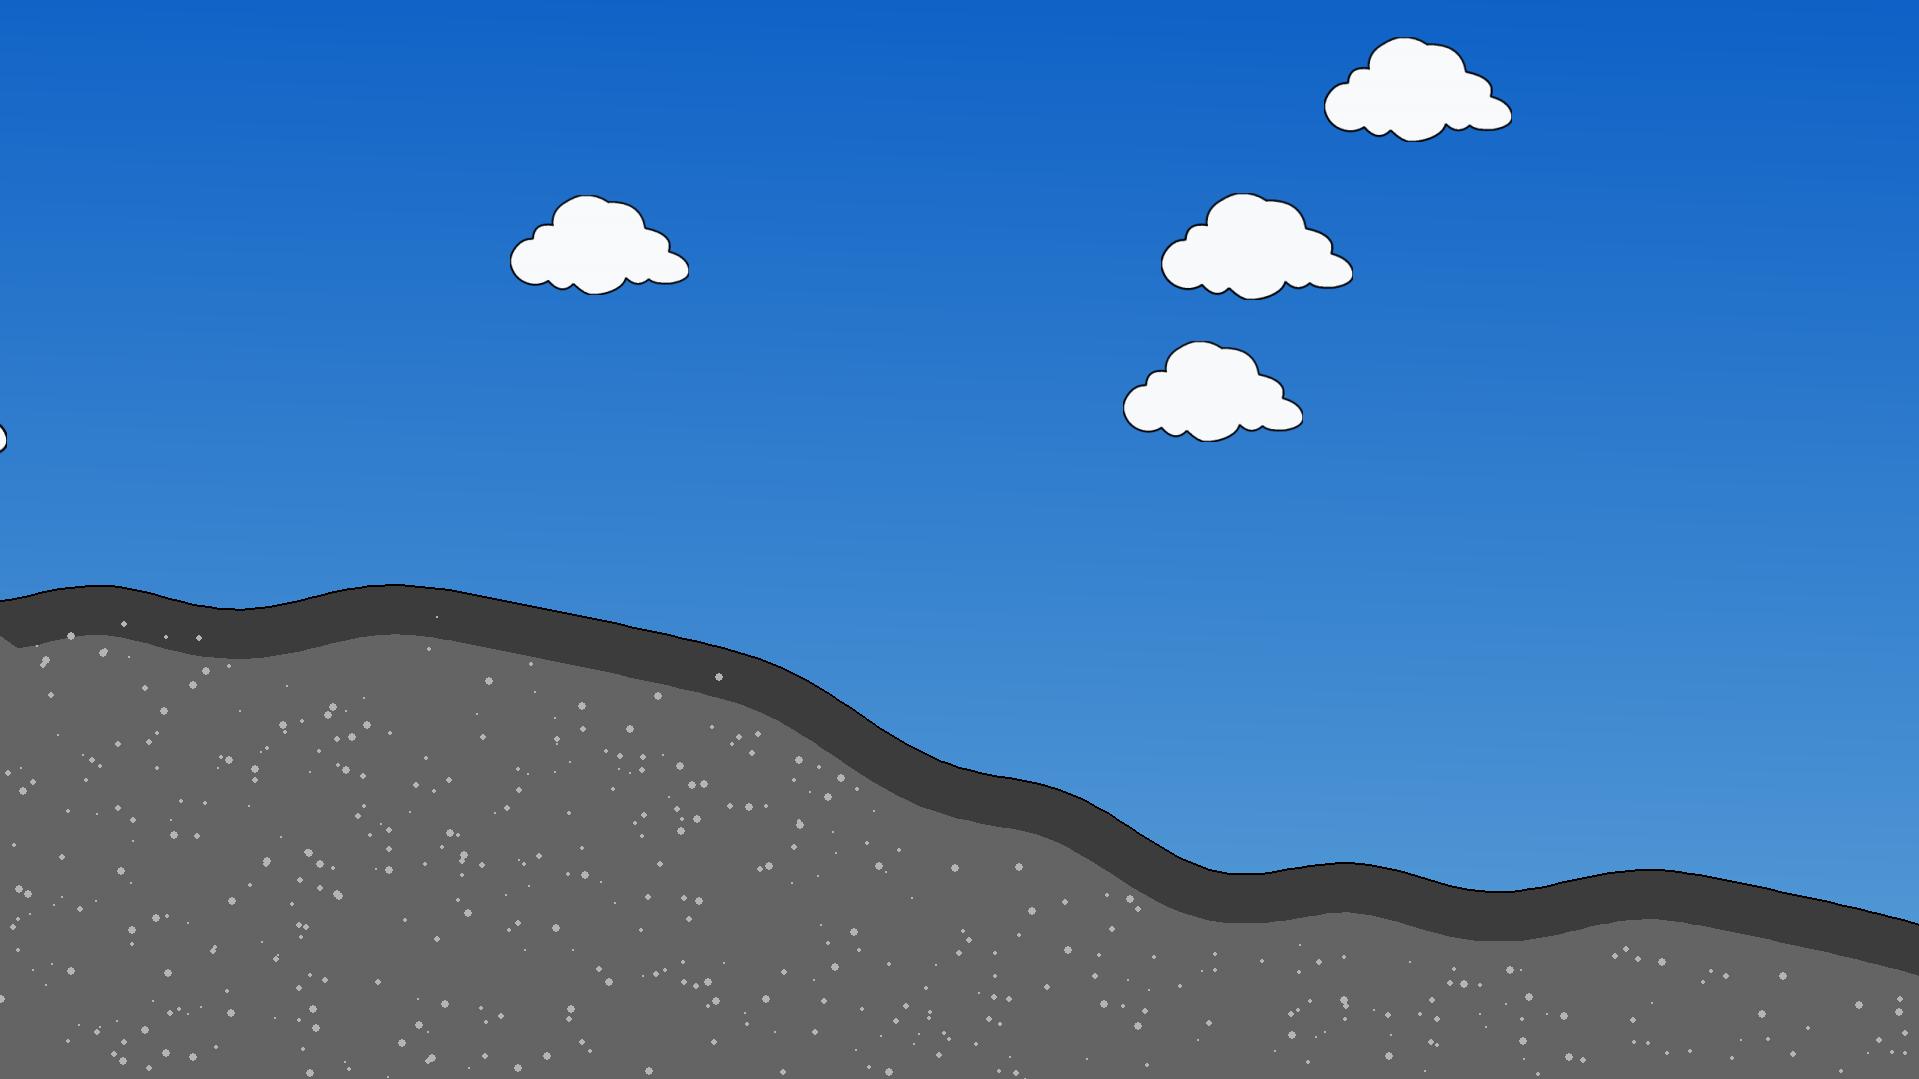
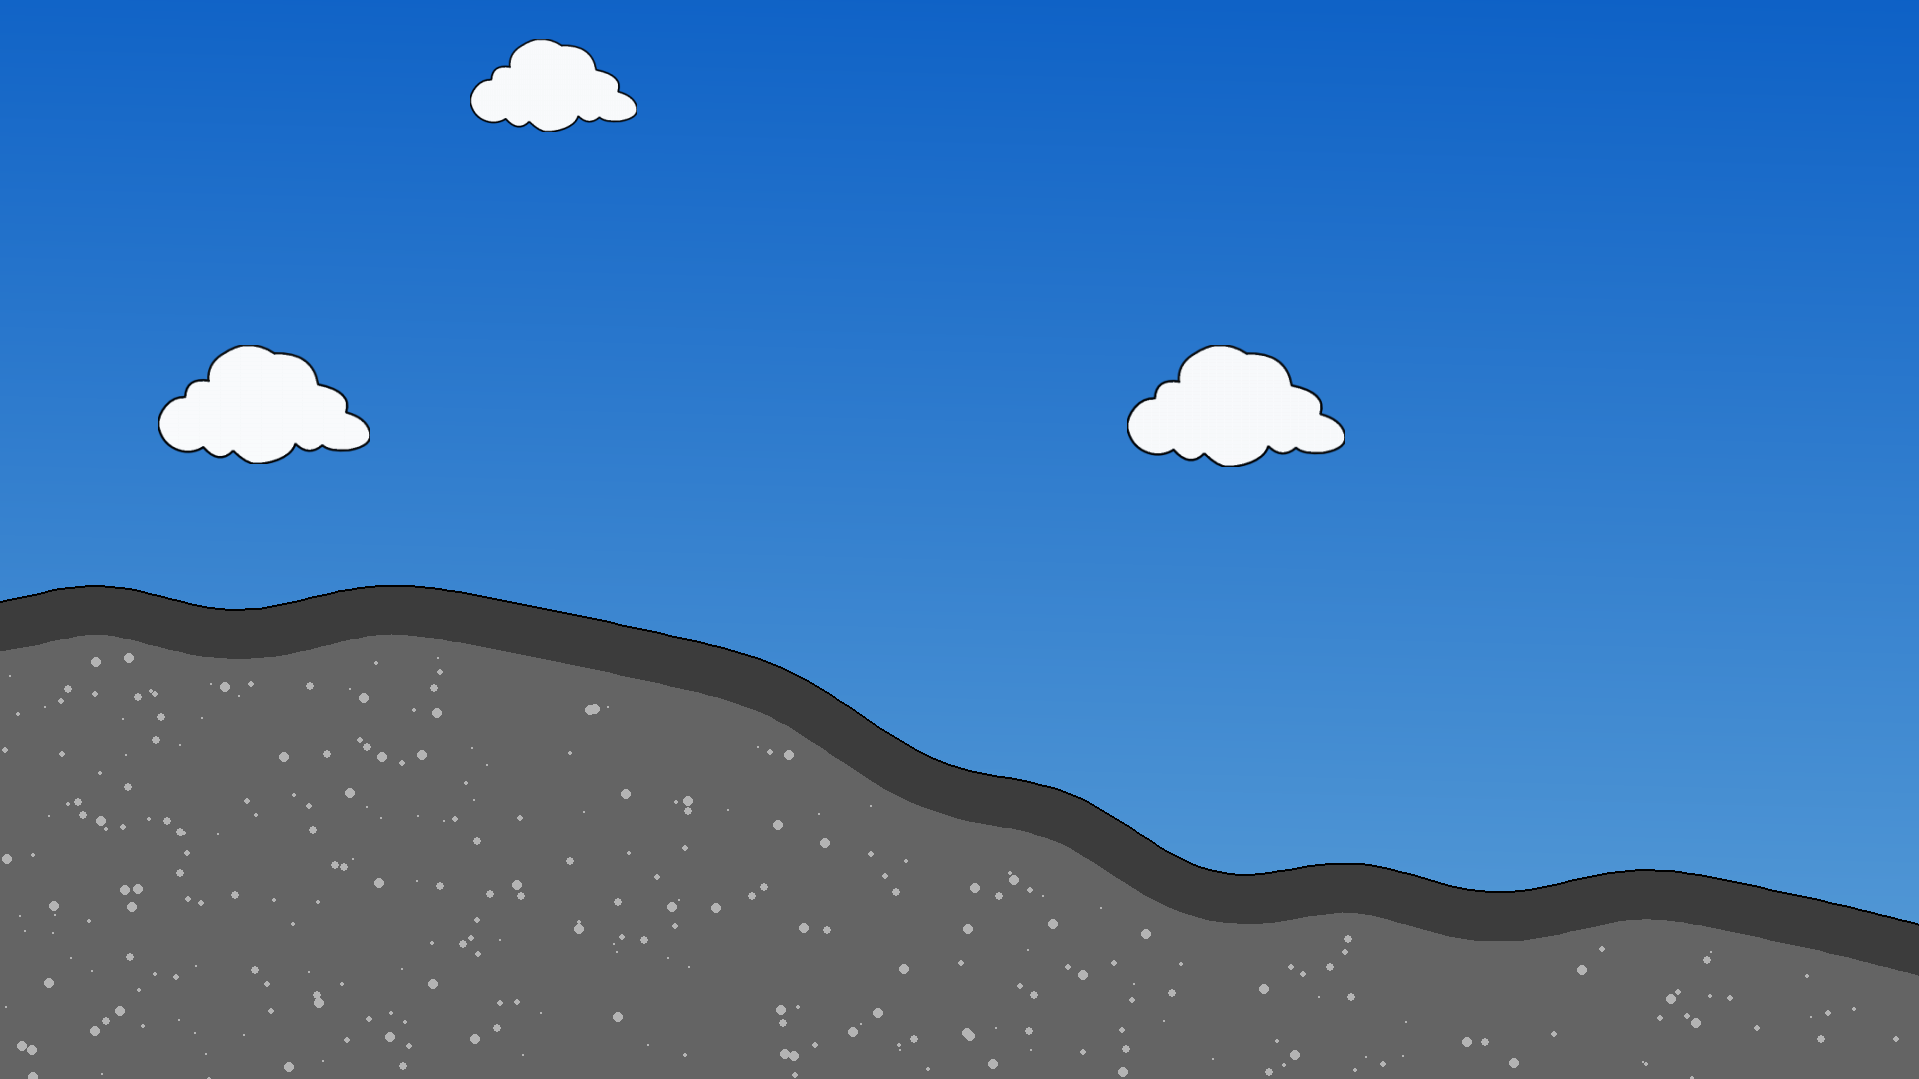
Bugfix kaminku 👍

diff --git a/hra.py b/hra.py
@@ -162,15 +162,15 @@ def vykresli_ui(screen, km, energie, kolo_x, rychlost, cas, uhel_rucicky):
 
     return novy_uhel
 
-def vykresli_teren(screen, kamera_x, kamera_y, kaminky, vybrana_mapa, barva_trava, barva_hlina, barva_kamen):
+def vykresli_teren(screen, kamera_x, kamera_y, kaminky, barva_trava, barva_hlina, barva_kamen):
     
     body_trava = [[0, config.obrazovka_vyska]]
-    body_hlina = [[0, config.obrazovka_vyska + vyska_travy]]
+    body_hlina = [[0, config.obrazovka_vyska]]
     body_hrana = []
 
     x_svet = kamera_x - (kamera_x % config.krok)
     x = int(x_svet)
-
+    body_trava.append([0, fyzika.generace_bod(x)-kamera_y])
     klice_na_smazani = []
 
     while x < kamera_x + config.obrazovka_sirka + 2 * config.krok:
@@ -190,15 +190,18 @@ def vykresli_teren(screen, kamera_x, kamera_y, kaminky, vybrana_mapa, barva_trav
             body_hlina.append([hlina_vec.x, hlina_vec.y])
             body_hrana.append((x_obrazovka, y))
 
-        if not(config.potato_pc) and kaminky is not None and x not in kaminky:
-            y_hlina = hlina_vec.y + kamera_y
-            segment_kaminky = [
-                (random.randint(x, x + config.krok),
-                 random.randint(int(y_hlina + 30), int(y_hlina + config.obrazovka_vyska + 30)),
-                 random.randint(1, 4))
-                for _ in range(10)
-            ]
-            kaminky[x] = segment_kaminky
+            kx = int(hlina_vec.x + kamera_x)
+            if not(config.potato_pc) and kaminky is not None and kx not in kaminky:
+                ky = hlina_vec.y + kamera_y
+                segment_kaminky = [
+                    (
+                        random.randint(kx,kx+config.krok),
+                        random.randint(int(ky+20),int(ky+config.obrazovka_vyska + 20)),
+                        random.randint(1, 5)
+                    )
+                    for _ in range(5)
+                ]
+                kaminky[kx] = segment_kaminky
 
         x += config.krok
 
@@ -260,6 +263,7 @@ def vykresli_mraky(screen, kamera_x, kamera_y, mraky, mapa):
         screen.blit(img, (x, y))
 
 def pause_menu(screen):
+    config.uloz_config()
     paused = True
     posledni_snimek = screen.copy()
     pokracovat_rect = pygame.Rect(screen.get_width()//2 - 200, 400, 400, 100)
@@ -294,6 +298,7 @@ def pause_menu(screen):
                     return "menu"
 
 def konec_menu(screen, km_ujet):
+    config.uloz_config()
     konec = True
     posledni_snimek = screen.copy()
     restart_rect = pygame.Rect(screen.get_width()//4 - 200, 550, 400, 100)
@@ -422,7 +427,7 @@ def main():
     elif vybrana_mapa == 3: # duny
         barva_trava = (242, 222, 163) 
         barva_hlina = (210, 180, 100)   
-        barva_kamen = (194, 178, 128) 
+        barva_kamen = (153, 140, 101)
     else:
         barva_trava = (0, 154, 23)
         barva_hlina = (120, 72, 0)
@@ -630,7 +635,7 @@ def main():
             vykresli_mraky(screen, camera.x, camera.y, mraky, vybrana_mapa)
 
         vykresli_kolo(kolo_interpolace, camera, rafek_img, ram_obrazky[int(kolo_interpolace.animace_index)])
-        vykresli_teren(screen, camera.x, camera.y, kaminky, vybrana_mapa, barva_trava, barva_hlina, barva_kamen)
+        vykresli_teren(screen, camera.x, camera.y, kaminky, barva_trava, barva_hlina, barva_kamen)
 
         for mince in mince_predmety.copy():
             mince.vykresli(screen, camera.x, camera.y)
@@ -657,7 +662,7 @@ def main():
         pygame.draw.rect(screen, cara_barva, (x1, y, cara_sirka, cara_vyska), border_radius=6)
         pygame.draw.rect(screen, cara_barva, (x2, y, cara_sirka, cara_vyska), border_radius=6)
 
-        camera = fyzika.lerp(camera, kolo_interpolace.rear_axel.position - Vector(-config.BIKE_LENGTH / 2 + config.obrazovka_sirka/2, config.obrazovka_vyska/1.5), 0.1)
+        camera = fyzika.lerp(camera, kolo_interpolace.rear_axel.position - Vector(-config.BIKE_LENGTH / 2 + config.obrazovka_sirka/2, config.obrazovka_vyska/1.6), 0.1)
         clock.tick(int(30 + config.fps_limit * 240))
         pygame.display.flip()
         

diff --git a/menu.py b/menu.py
@@ -64,7 +64,7 @@ margin_x = 50
 
 # TODO!!!
 # procentualne na obrazovce vykreslovat?
-# ruzne mapy (mesic, dalnice, hory. noc)
+# FIXNOUT KAMINKY
 # hezci ui
 # hudba, zvuk
 # optimalizace
@@ -93,6 +93,7 @@ def menu():
                     if vyber is not None:
                         nastav_kolo(config.vybrane_kolo)
                         config.nastav_upgrady()
+                        config.uloz_config()
                         spust_hru()
                 elif tlacitko_vylepseni.collidepoint(event.pos):
                     menu_vylepseni()
@@ -115,7 +116,7 @@ def menu_mapy():
         pygame.draw.polygon(screen, (100, 100, 100), [(prava_sipka.left, prava_sipka.top), (prava_sipka.right, prava_sipka.centery), (prava_sipka.left, prava_sipka.bottom)])
 
         nazev, img = mapy[config.vybrana_mapa]
-        img = pygame.transform.smoothscale(img, (600, 400))
+        img = pygame.transform.smoothscale(img, (608, 342))
         screen.blit(img, (config.obrazovka_sirka//2 - 300, 250))
         vykresli_text(screen, nazev, (0, 0, 0), (config.obrazovka_sirka//2, 700), "center", 80)
 
@@ -142,6 +143,7 @@ def menu_mapy():
                     return None
             elif event.type == pygame.KEYDOWN:
                 if event.key == pygame.K_ESCAPE:
+                    config.uloz_config()
                     return None
 
 def menu_vylepseni():

diff --git a/config.py b/config.py
@@ -62,14 +62,15 @@ def uloz_config():
         "jidla_odemcena": jidla_odemcena,
         "kola_upgrady": kola_upgrady,
         "vybrane_kolo": vybrane_kolo,
-        "vybrane_jidlo": vybrane_jidlo
+        "vybrane_jidlo": vybrane_jidlo,
+        "vybrana_mapa": vybrana_mapa
     }
     with open(config_file, "w") as f:
         json.dump(data, f)
 
 def nacti_config():
     global volume_sound, volume_music, potato_pc, fps, fps_limit, fullscreen
-    global vybrane_kolo, vybrane_jidlo, prachy, ztrata_energie
+    global vybrane_kolo, vybrane_jidlo, prachy, ztrata_energie, vybrana_mapa
     global kola_odemcena, jidla_odemcena, kola_upgrady
 
     if os.path.exists(config_file):
@@ -86,6 +87,7 @@ def nacti_config():
             kola_upgrady = data.get("kola_upgrady", kola_upgrady)
             vybrane_kolo = data.get("vybrane_kolo", vybrane_kolo)
             vybrane_jidlo = data.get("vybrane_jidlo", vybrane_jidlo)
+            vybrana_mapa = data.get("vybrana_mapa", vybrana_mapa)
     
     if not kola_odemcena[vybrane_kolo]:
         vybrane_kolo = 0
